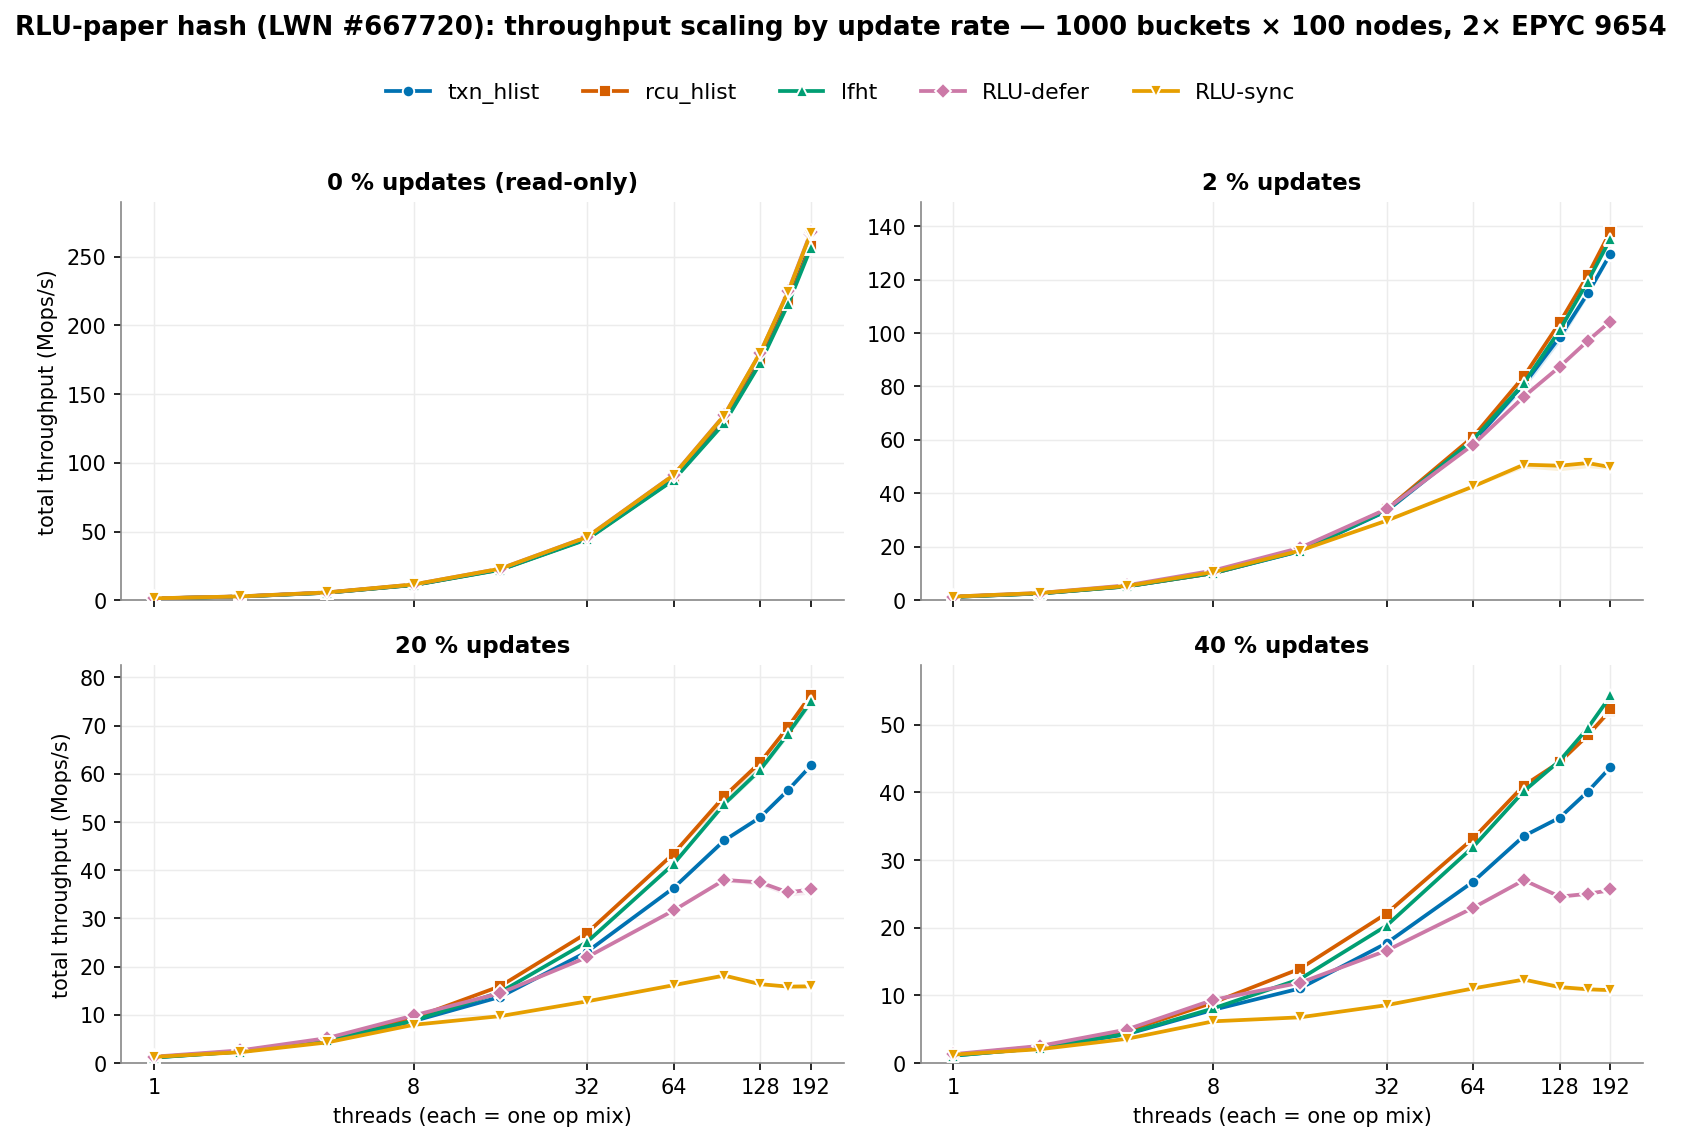
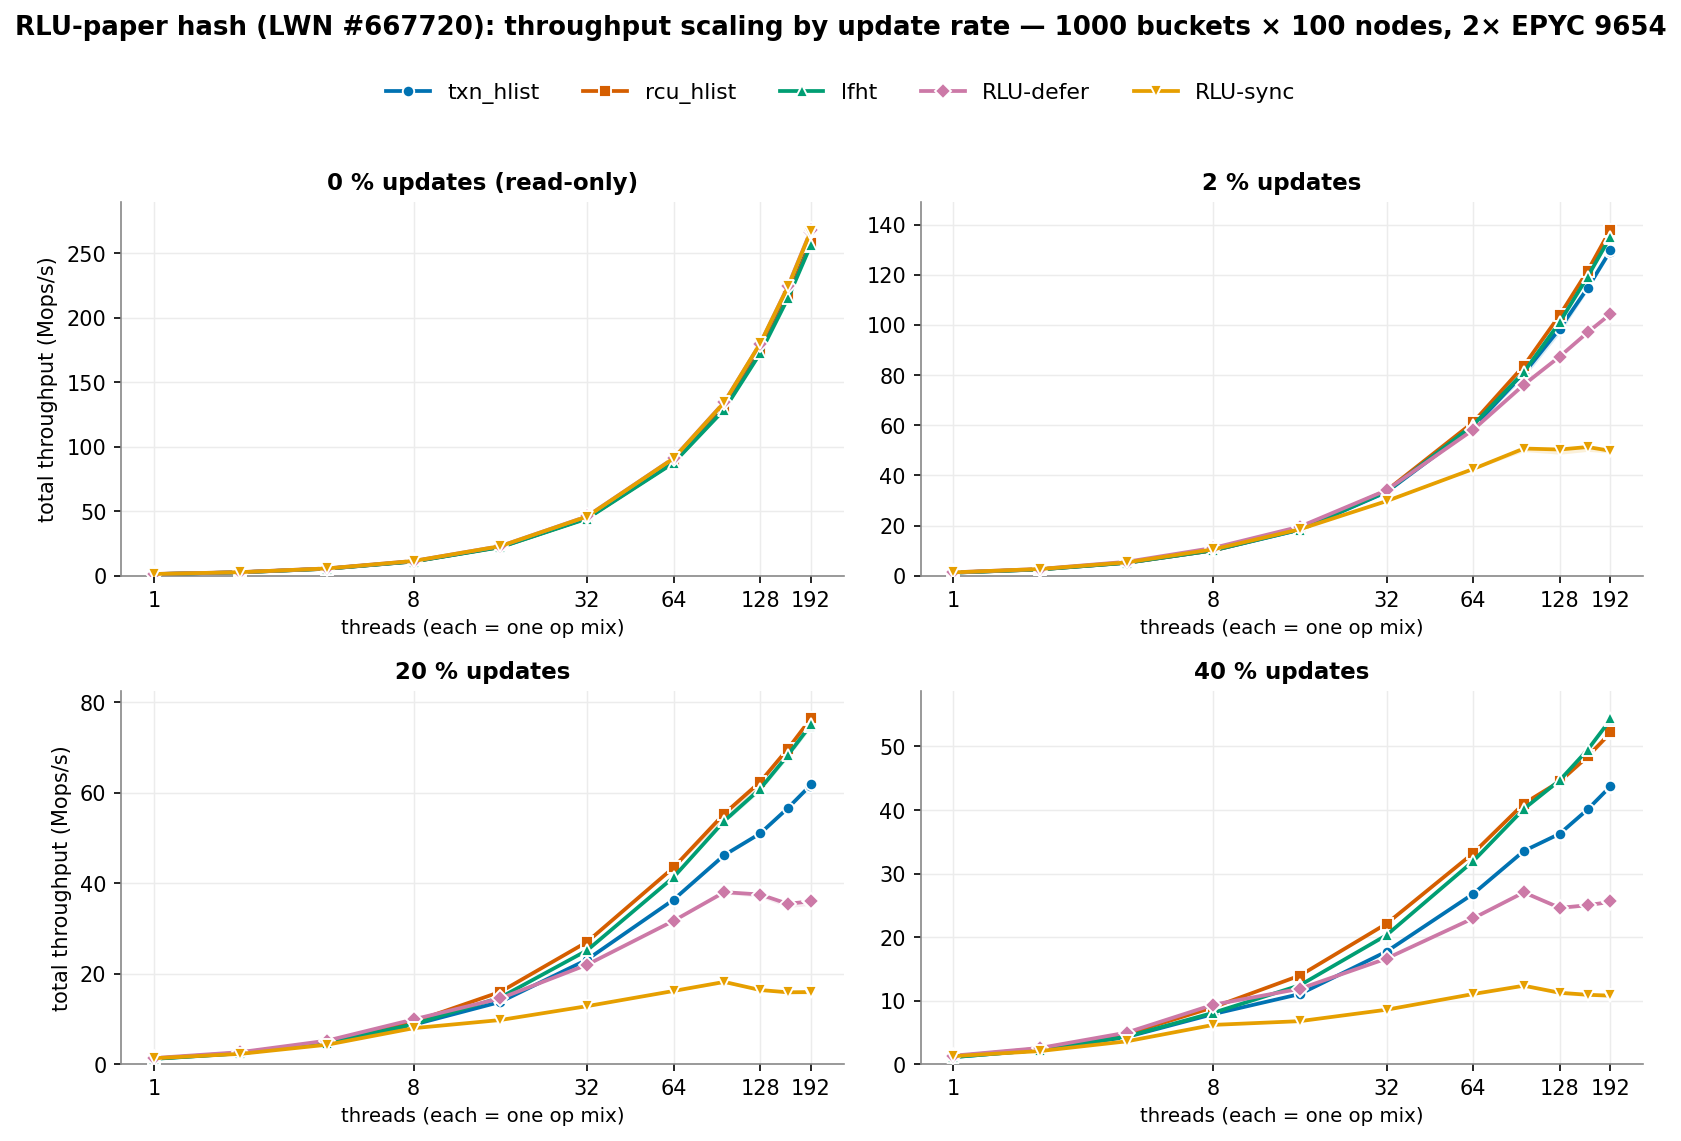
plot_hash_lwn: give every panel its own x-axis
sharex=True hid the top row's x-tick labels, so the 0%/2% panels rendered with no visible x-axis. Drop the shared axis and set a per-panel xlabel (matching the dedicated figure), then regenerate figures/lwn667720_hash.png.

diff --git a/scripts/plot_hash_lwn.py b/scripts/plot_hash_lwn.py
@@ -38,7 +38,7 @@ def series(pct, ekey):
 
 plt.rcParams.update({"font.size": 10, "axes.edgecolor": "#888888",
                      "axes.linewidth": 0.8, "figure.facecolor": "white"})
-fig, axes = plt.subplots(2, 2, figsize=(11, 7.2), dpi=150, sharex=True)
+fig, axes = plt.subplots(2, 2, figsize=(11, 7.2), dpi=150)
 xticks = [1, 8, 32, 64, 128, 192]
 
 for ax, (pct, title) in zip(axes.flat, PCTS):
@@ -57,13 +57,12 @@ for ax, (pct, title) in zip(axes.flat, PCTS):
     ax.xaxis.set_minor_locator(NullLocator())
     ax.set_xticklabels([str(t) for t in xticks])
     ax.set_ylim(0, ymax * 1.08)
+    ax.set_xlabel("threads (each = one op mix)", fontsize=9.5)
     ax.grid(True, color="#ececec", lw=0.7, zorder=0)
     ax.set_axisbelow(True)
     for s in ("top", "right"):
         ax.spines[s].set_visible(False)
 
-for ax in axes[-1]:
-    ax.set_xlabel("threads (each = one op mix)", fontsize=10)
 for ax in axes[:, 0]:
     ax.set_ylabel("total throughput (Mops/s)", fontsize=10)
 
